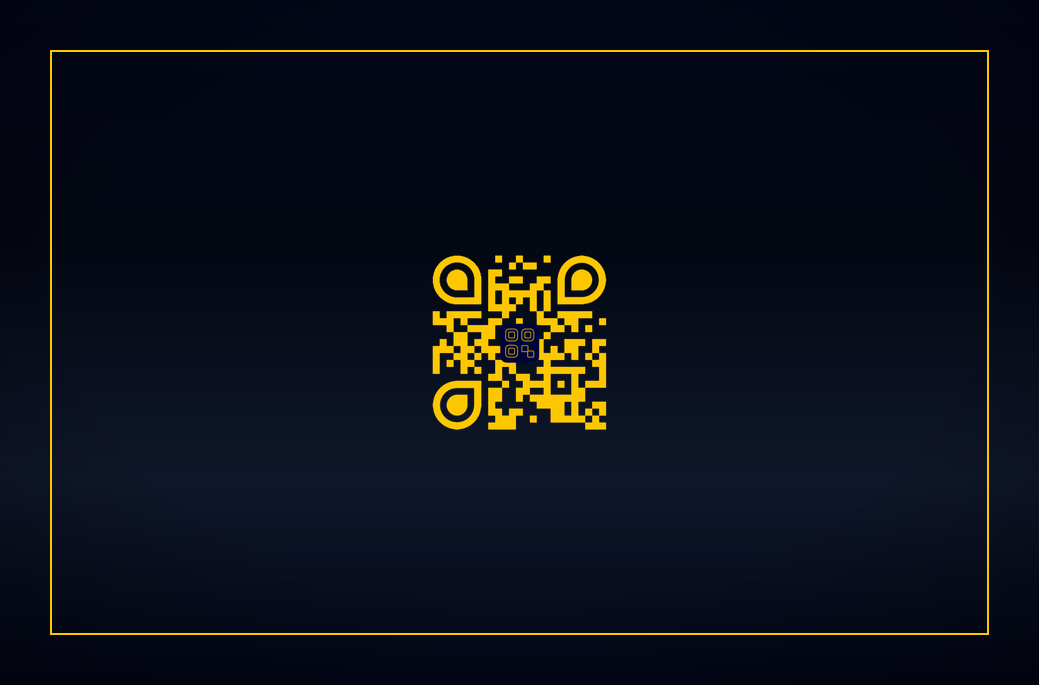
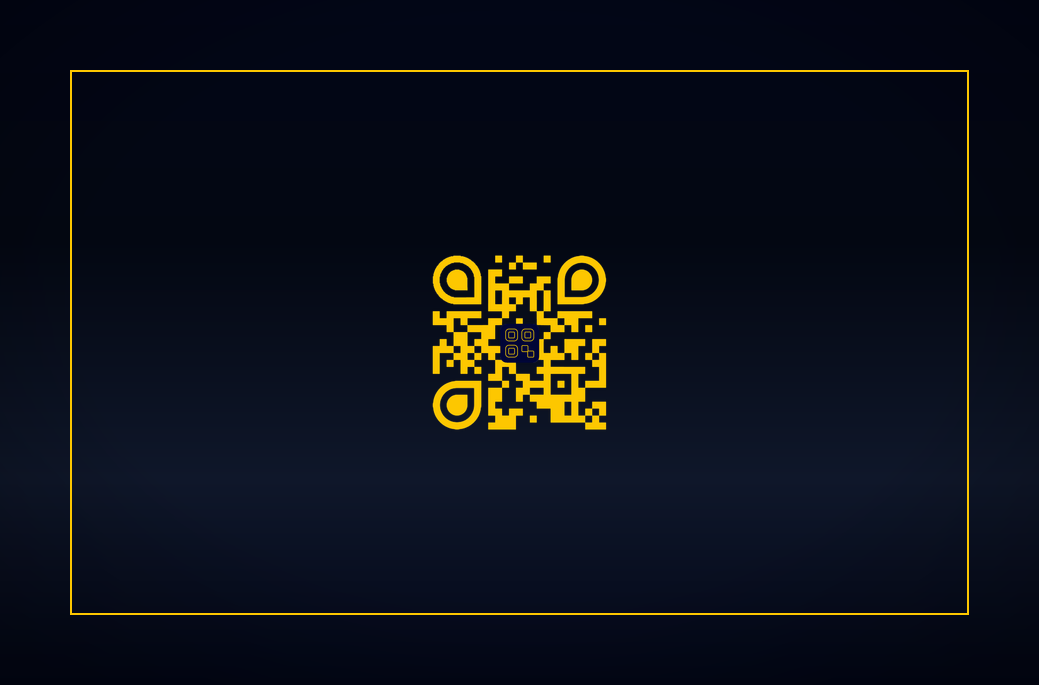
[FEATURE-ALPHA] generate-business-card

Changed region(s): [[0.924, 0.0613, 0.9548, 0.9197], [0.0616, 0.092, 0.0924, 0.1226]]

diff --git a/frontend/index.html b/frontend/index.html
@@ -78,43 +78,43 @@
 
     <link
       rel="apple-touch-startup-image"
-      href="/splash/iphone-750x1334-v58.png"
+      href="/splash/iphone-750x1334-v59.png"
       media="(device-width: 375px) and (device-height: 667px) and (-webkit-device-pixel-ratio: 2) and (orientation: portrait)"
     />
 
     <link
       rel="apple-touch-startup-image"
-      href="/splash/iphone-828x1792-v58.png"
+      href="/splash/iphone-828x1792-v59.png"
       media="(device-width: 414px) and (device-height: 896px) and (-webkit-device-pixel-ratio: 2) and (orientation: portrait)"
     />
 
     <link
       rel="apple-touch-startup-image"
-      href="/splash/iphone-1170x2532-v58.png"
+      href="/splash/iphone-1170x2532-v59.png"
       media="(device-width: 390px) and (device-height: 844px) and (-webkit-device-pixel-ratio: 3) and (orientation: portrait)"
     />
 
     <link
       rel="apple-touch-startup-image"
-      href="/splash/iphone-1179x2556-v58.png"
+      href="/splash/iphone-1179x2556-v59.png"
       media="(device-width: 393px) and (device-height: 852px) and (-webkit-device-pixel-ratio: 3) and (orientation: portrait)"
     />
 
     <link
       rel="apple-touch-startup-image"
-      href="/splash/iphone-1290x2796-v58.png"
+      href="/splash/iphone-1290x2796-v59.png"
       media="(device-width: 430px) and (device-height: 932px) and (-webkit-device-pixel-ratio: 3) and (orientation: portrait)"
     />
 
     <link
       rel="apple-touch-startup-image"
-      href="/splash/ipad-1668x2388-v58.png"
+      href="/splash/ipad-1668x2388-v59.png"
       media="(device-width: 834px) and (device-height: 1194px) and (-webkit-device-pixel-ratio: 2) and (orientation: portrait)"
     />
 
     <link
       rel="apple-touch-startup-image"
-      href="/splash/ipad-2048x2732-v58.png"
+      href="/splash/ipad-2048x2732-v59.png"
       media="(device-width: 1024px) and (device-height: 1366px) and (-webkit-device-pixel-ratio: 2) and (orientation: portrait)"
     />
 

diff --git a/frontend/src/scripts/generate-business-card.js b/frontend/src/scripts/generate-business-card.js
@@ -57,7 +57,7 @@ const colors = {
 
 const borderColor = "#fdc700";
 const borderWidth = 2;
-const borderMargin = 50;
+const borderMargin = 70;
 
 /* --------------------------------------------------
  * SVG du background commun (recto + verso)
